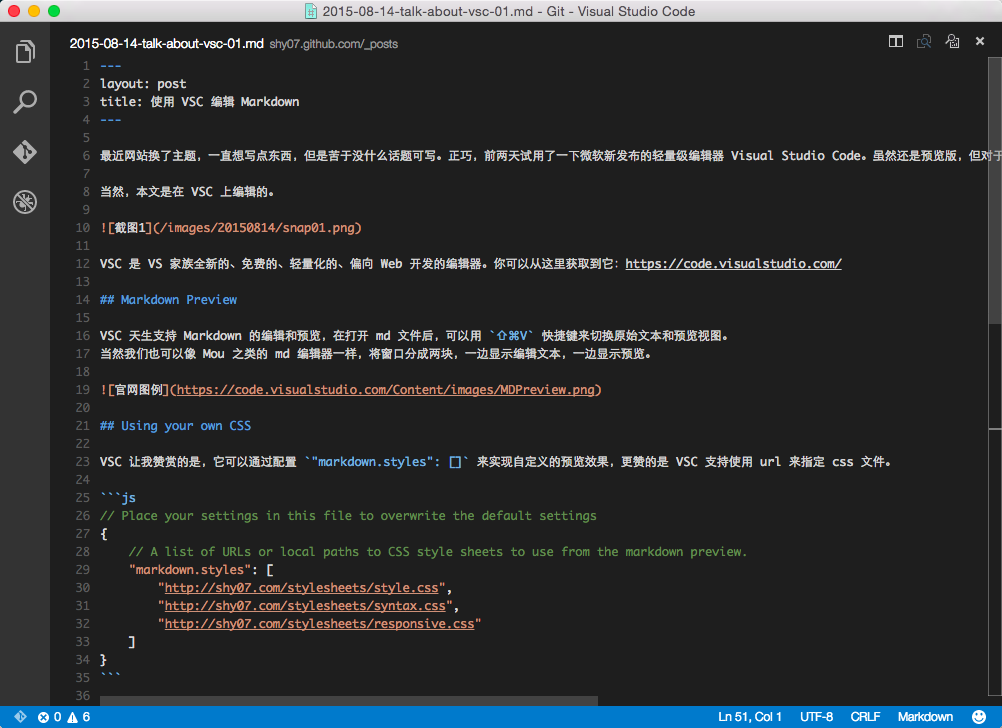
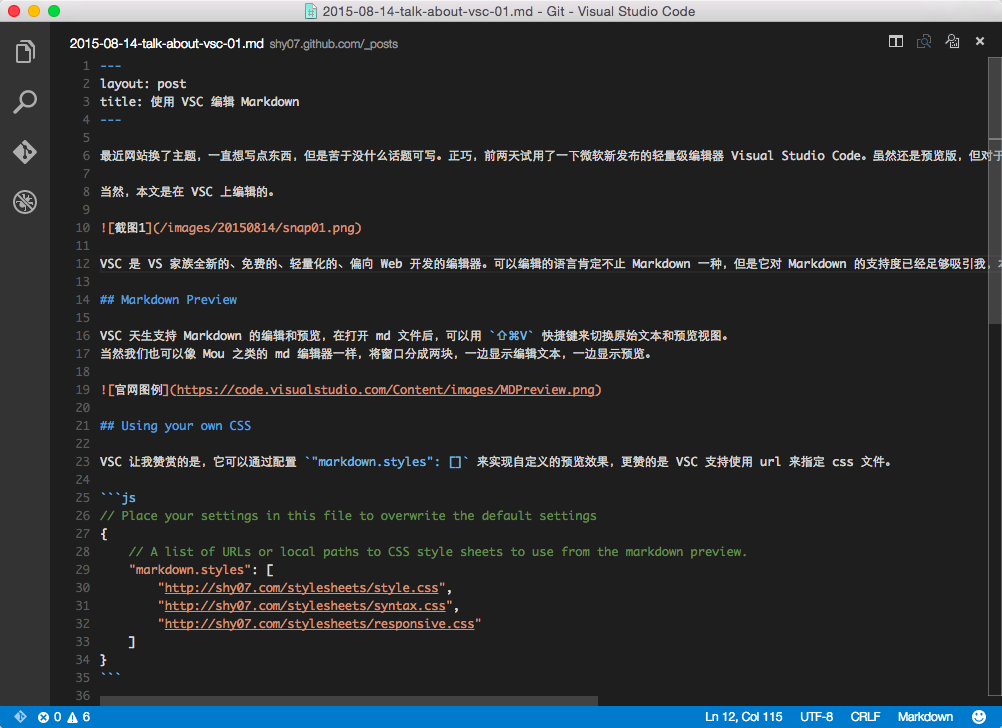
update

Changed region(s): [[0.495, 0.3324, 0.99, 0.3929], [0.7116, 0.967, 0.7735, 0.9973]]

diff --git a/_posts/2015-08-14-talk-about-vsc-01.md b/_posts/2015-08-14-talk-about-vsc-01.md
@@ -3,13 +3,13 @@ layout: post
 title: 使用 VSC 编辑 Markdown
 ---
 
-最近网站换了主题，一直想写点东西，但是苦于没什么话题可写。正巧，前两天试用了一下微软新发布的轻量级编辑器 Visual Studio Code。虽然还是预览版，但对于 Markdown 的支持，我已经十分满意，尤其在预览方面已经超越了我之前用的 Mou。于是写下本文，准备安利一下。
+最近网站换了主题，一直想写点东西，但是苦于没什么话题可写。正巧，前两天试用了一下微软新发布的轻量级编辑器 Visual Studio Code。虽然还是预览版，但对于 Markdown 的支持，我已经十分满意。尤其在预览方面已经超越了我之前用的 Mou，于是想简单安利一下。
 
 当然，本文是在 VSC 上编辑的。
 
 ![截图1](/images/20150814/snap01.png)
 
-VSC 是 VS 家族全新的、免费的、轻量化的、偏向 Web 开发的编辑器。你可以从这里获取到它：https://code.visualstudio.com/
+VSC 是 VS 家族全新的、免费的、轻量化的、偏向 Web 开发的编辑器。可以编辑的语言肯定不止 Markdown 一种，但是它对 Markdown 的支持度已经足够吸引我，本文着重点也是在 VSC 预览 Markdown 的方面。你可以从这里获取到它：https://code.visualstudio.com/
 
 ## Markdown Preview
 
